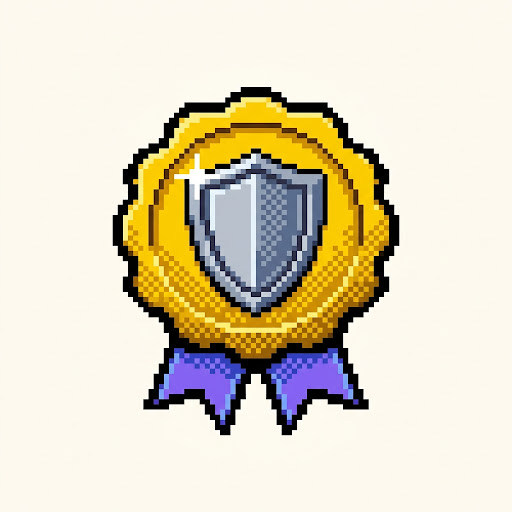
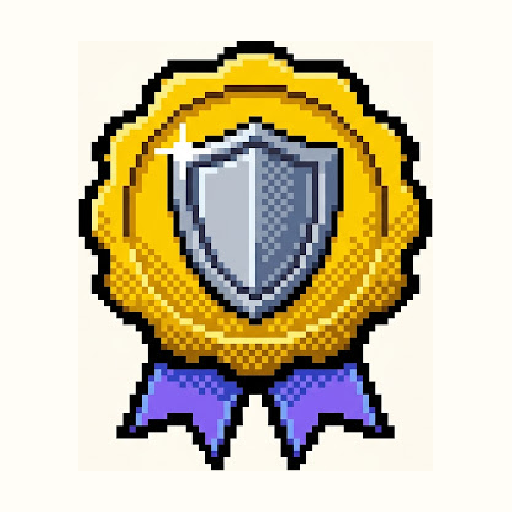
Normalize badge sizing: contain fit + auto-trimmed/re-centered art for uniform medallions

diff --git a/app/screens/HeroScreen.tsx b/app/screens/HeroScreen.tsx
@@ -23,8 +23,8 @@ function StatTile({ label, value, color, bottom }: { label: string; value: strin
 function BadgeTile({ icon, name, earned }: { icon: any; name: string; earned: boolean }) {
   return (
     <View style={{ alignItems: 'center', width: '30%', gap: 5 }}>
-      <View style={{ width: 66, height: 66, borderWidth: 3, borderColor: colors.ink, backgroundColor: earned ? colors.surfaceLow : colors.surface, alignItems: 'center', justifyContent: 'center', overflow: 'hidden' }}>
-        <Image source={icon} style={{ width: 60, height: 60, opacity: earned ? 1 : 0.22 }} resizeMode="cover" />
+      <View style={{ width: 66, height: 66, borderWidth: 3, borderColor: colors.ink, backgroundColor: earned ? colors.surfaceLow : colors.surface, alignItems: 'center', justifyContent: 'center', overflow: 'hidden', padding: 5 }}>
+        <Image source={icon} style={{ width: '100%', height: '100%', opacity: earned ? 1 : 0.22 }} resizeMode="contain" />
         {!earned && (
           <View style={{ position: 'absolute', top: 0, left: 0, right: 0, bottom: 0, alignItems: 'center', justifyContent: 'center' }}>
             <Ionicons name="lock-closed" size={20} color={colors.inkSoft} />
